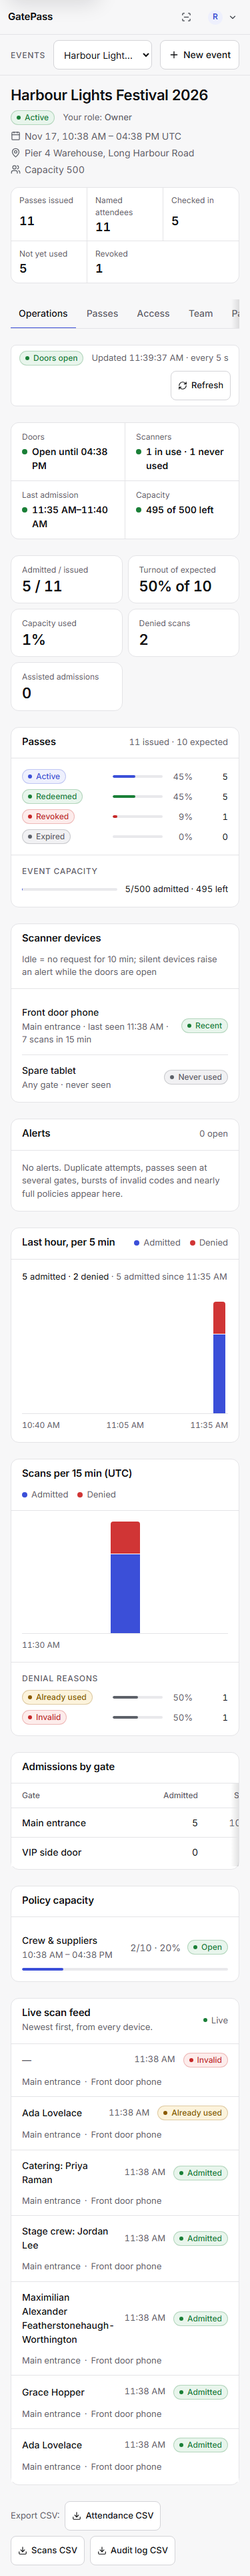
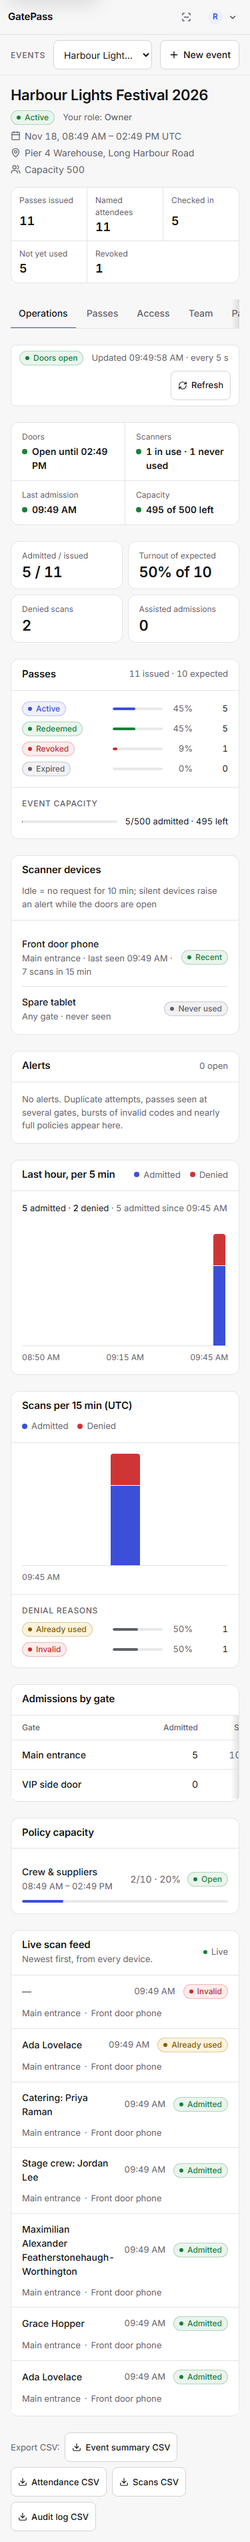
Refresh the mobile confirmation screenshots after integration
- Five visual checks passed across seven widths; current dialog viewport captures replace the earlier full-page images.
- Update the third UI review for exact last-admission times, unconfirmed emails and the event-summary download.

diff --git a/docs/ui-review-2026-11-pass3.md b/docs/ui-review-2026-11-pass3.md
@@ -32,10 +32,9 @@ E2E_PORT=3414 npx playwright test e2e/a11y.spec.ts --project=chromium
 
 Screenshots: `docs/screenshots/review-2026-11-pass3/{before,after}/<screen>-<scheme>-<width>.png`. Only the files
 cited below are committed; the two `badges-preview` captures are cropped to their first 3200 px (the pass list
-below grows with every run). The committed dialog captures are full-page, so a dialog opened after the page
-scrolled to its button sits outside the image; the harness now takes viewport captures of modal screens
-(`viewportShot`), so `REVIEW_SHOTS=review-2026-11-pass3/after` regenerates them with the dialog in view. The
-dialog wording itself is asserted in `e2e/live-changes.spec.ts`.
+below grows with every run). The light 375 px dialog captures and mobile Operations capture were refreshed
+after integration using the harness's viewport capture for dialogs; the confirmations are visible in the
+committed images. The dialog wording is also asserted in `e2e/live-changes.spec.ts`.
 
 ## Findings and fixes
 
@@ -56,13 +55,13 @@ and "Could not refresh: … Showing data from hh:mm:ss" with Retry. It had no te
 now fails the operations request and checks the message, the Stale badge, that the last figures (and the strip)
 stay, and that Retry clears it.
 
-## Event-day strip: data not in the summary
+## Event-day strip: integration follow-up
 
-`OperationsSummary` has no exact time of the last admission while the event runs (only `completion.lastAdmissionAt`
-once finished), so the strip shows the 5-minute bucket of the last hour. Exact value would need
-`lastAdmissionAt: string | null` in `OperationsSummary` (the query exists in `completion()` in
-`src/server/operations.ts`). Pass email counts come from `GET /api/events/:id/deliveries?limit=1` (`counts`),
-polled every 30 s while the tab is visible.
+The initial review used a 5-minute bucket while the event was live. Integration added
+`OperationsSummary.lastAdmissionAt: string | null`, and the strip now shows the exact last-admission time.
+Pass email counts come from `GET /api/events/:id/deliveries?limit=1`, polled every 30 seconds while visible;
+`unconfirmed` emails now count as requiring action rather than accepted. Owners can download the concise
+report using "Event summary CSV" alongside the other exports (`e2e/operations-dashboard.spec.ts`).
 
 ## Reviewed and kept as is
 
@@ -80,3 +79,8 @@ polled every 30 s while the tab is visible.
 - `e2e/a11y.spec.ts`, chromium: 64 passed, zero violations.
 - These two runs used the build before fix 7, the "Capacity used" tile removal and the `delete-policy-dialog`
   screen; the specs that cover those (onboarding, operations-dashboard) were run on the final build.
+
+After integration: the complete local Playwright run passed 227 tests (272 browser-gated skips), including
+all visual and axe screens on the final application code. The light Operations and four dialog screens were
+also re-captured at all seven widths: 5/5 visual tests passed. The 375 px captures replace the stale
+full-page dialog images cited above.
